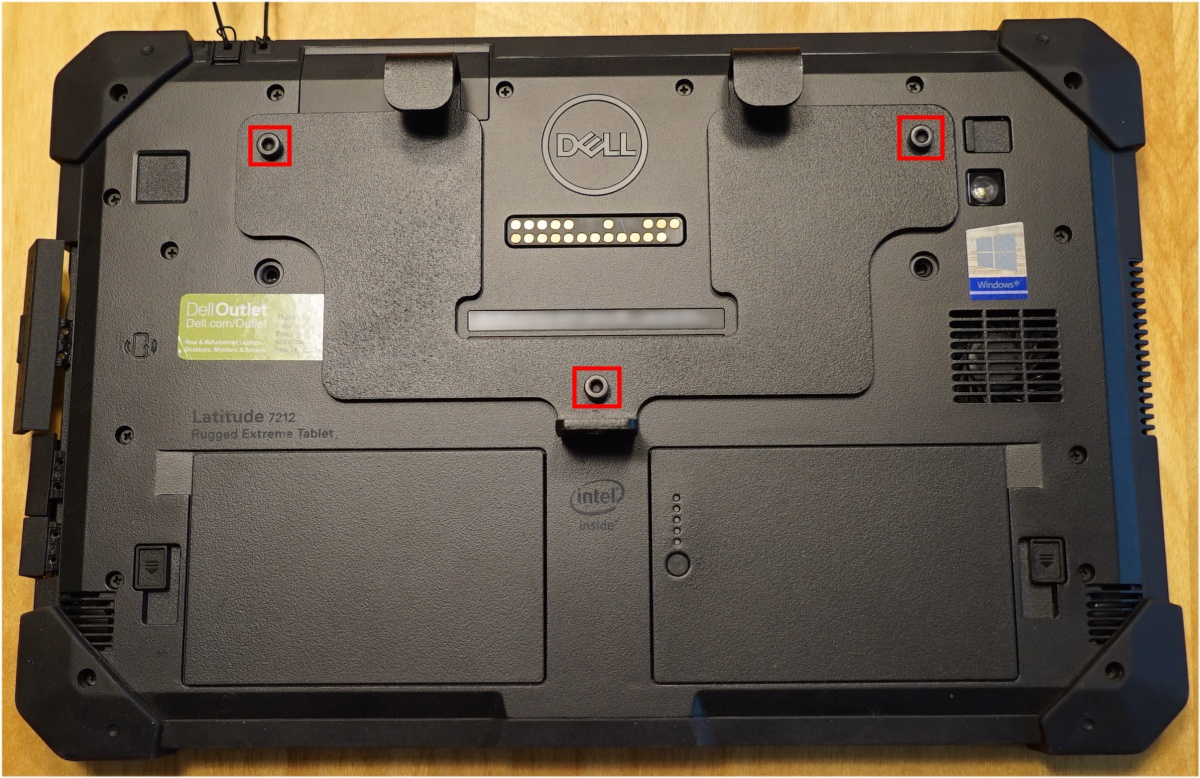
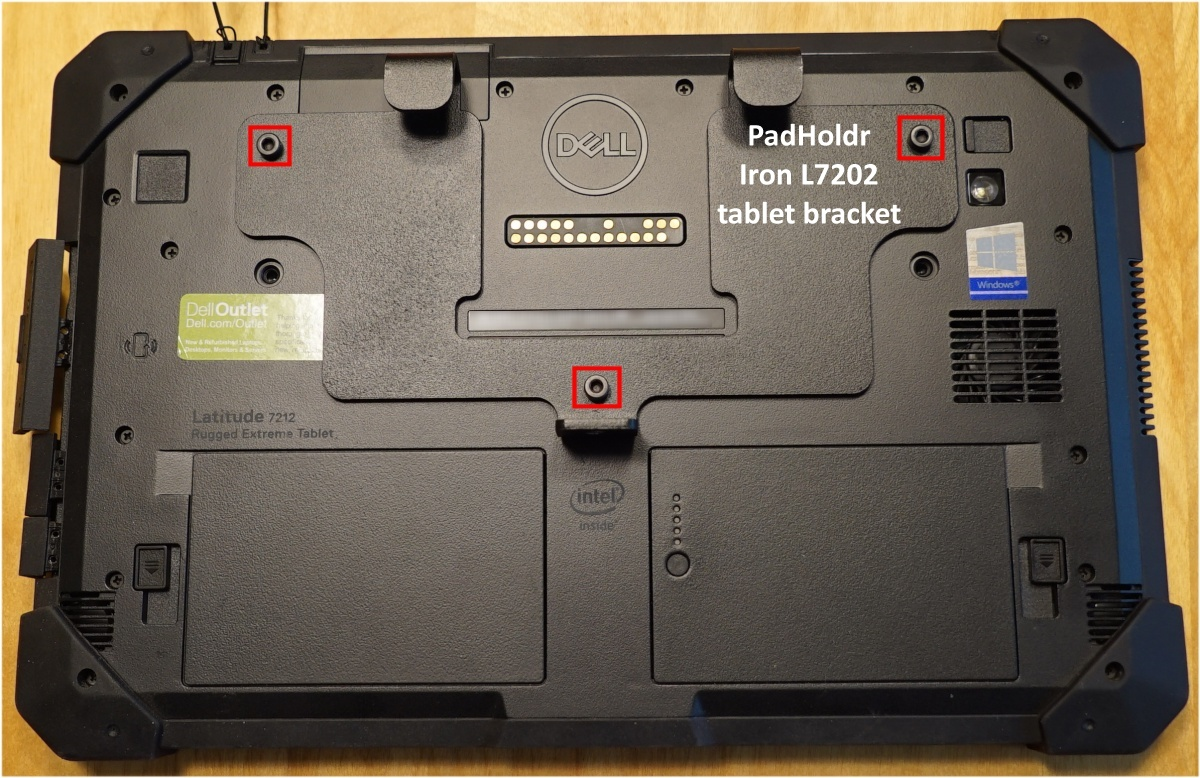
More progress on rugged tablet project.

Changed region(s): [[0.5858, 0.1542, 0.74, 0.3085]]

diff --git a/docs/_projects/2020-11-14-rugged-tablet.md b/docs/_projects/2020-11-14-rugged-tablet.md
@@ -19,36 +19,34 @@ After some discussion with the club, we decided build around the [Dell Rugged Ex
 
 The end result was a durable, one-piece unit that quickly attaches to the Hi-Pod and gets the club live and on-the-air with minimal fuss.
 
-![](/assets/projects/rugged/whole-assembly.jpg)
+![Completed Project](/assets/projects/rugged/completed-project.jpg)
 
 <!--more-->
 
-Each system we built for Seattle United included the tablet, mount and video connections, an on-air light, and external batteries with a custom switchbox to toggle between them. You may choose to mix and match the system components differently depending on your needs so we've split the system design into several sections, the latter of which are optional.
+Each system we built for Seattle United included the tablet, mount and video connections, an on-air light, and external batteries with a custom switchbox to toggle between them. You may choose to mix and match the system components differently depending on your needs so we've split the system design into several sections, some of which are optional.
 
 <!-- Tables converted from Excel by https://tabletomarkdown.com/convert-spreadsheet-to-markdown/ -->
 
-## System Design
+## Parts Lists
 
-1. [Main Tablet Assembly](#main-tablet-assembly)
-2. [External Batteries](#external-batteries)
-3. [On-Air Light](#on-air-light)
-4. [Battery Switchbox](#battery-switchbox)
+The parts lists are broken into several sections, the latter of which are optional. Prices shown were current as of November 2020.
 
-### Main Tablet Assembly
+* [Main Tablet Parts](#main-tablet-parts)
+* [External Battery Parts](#external-battery-parts) (optional)
+* [On-Air Light Parts](#on-air-light-parts) (optional)
+* [Battery Switchbox Parts](#battery-switchbox-parts) (optional)
 
-This is the core of the system with the main components you need to run SimpleSportsCaster on a tablet attached to a Hi-Pod pole. It doesn't include some of the optional components like the on-air light or the external batteries. To be clear, even if you don't add the [external batteries](#external-batteries), you'll still need some kind of external power source to make it through a 2 hour game.
+### Main Tablet Parts
 
-The single most expensive piece of the system is the Dell Rugged Extreme Tablet itself. We recommend you choose to configure it with an Intel Core i7 processor, especially if you want to live stream and record simultaneously.
+This is the core of the system with the main components you need to run SimpleSportsCaster on a rugged tablet attached to a Hi-Pod pole. It doesn't include some of the optional components like the on-air light or the external batteries. To be clear, even if you don't add the [external batteries](#external-battery-parts), you'll still need some kind of external power source to make it through a 2 hour game.
+
+The single most expensive piece of the system is the Dell Rugged Extreme Tablet itself. We recommend a configuration with the Intel Core i7 processor, especially if you want to live stream and record simultaneously.
 
 For live streaming, it's extremely convenient to include one of the mobile broadband options but you can also tether your phone or use some other external mobile hotspot.
 
 If you intend to record your games to the tablet, you'll want a reasonably large hard drive or solid state storage. Recording high quality HD 1080p60 video at 50 mbps consumes over 20 gigabytes of storage per hour. Think about how many games you'll want to save on the tablet before transferring them elsewhere and plan accordingly. Seattle United chose the 512 GB option which let's them record an entire weekend worth of ECNL games without running out of space.
 
 After the tablet, one of the most important components is the video capture device that allows the tablet to recieve the video feed from the camera on top of the Hi-Pod. We choose the [Elgato HD60 S+](https://www.elgato.com/en/gaming/game-capture-hd60-s-plus) because it's a high-quality device from a well-known manufacturer. It also has two HDMI ports which allows you to view the video feed on the tablet and on the Hi-Pod's monitor at the same time. This is great if you have a two-person crew where one person operates the camera while viewing the Hi-Pod monitor and another operates the scoreboard and keeps statistics on the tablet.
-
-#### Parts List
-
-Here is the complete parts list for the main tablet assembly. Prices shown were current as of November 2020.
 
 | Manufacturer    | Part                                                                                                                                                                                                                         | Quantity | Unit Cost | Total Cost | Description                                                                                                               |
 | --------------- | ---------------------------------------------------------------------------------------------------------------------------------------------------------------------------------------------------------------------------- | -------- | --------- | ---------- | ------------------------------------------------------------------------------------------------------------------------- |
@@ -67,32 +65,20 @@ Here is the complete parts list for the main tablet assembly. Prices shown were 
 |                 | misc tools and hardware                                                                                                                                                                                                      |          |           |            | nuts, bolts, screwdrivers, wrenches, thread lock glue                                                                     |
 | **Total**       |                                                                                                                                                                                                                              |          |           | **$2,954** |                                                                                                                           |
 
-#### Clamp Arm
+### External Battery Parts
 
-Assemble the clamp and tablet mount parts as shown below.
-
-You may want to some thread lock glue on the Manfrotto 2907 short stud where it screws into the back of the RAM 202CNSU ball.
-
-![](/assets/projects/rugged/clamp-arm.jpg)
-
-If you plan to add the [external batteries](#external-batteries) then you'll want to sandwich the battery mounting plate between the PadHolder Iron L7202 and the RAM 2461U at this time. Otherwise, you'll have to do some disassembly to add it later.
-
-#### Tablet Mount
-
-If necessary, unscrew and separate the two halves of the PadHoldr Iron L7202. Attach the tablet bracket of the L7202 to the back of the Dell tablet using the included screws.
-
-![](/assets/projects/rugged/tablet-bracket.jpg)
-
-### External Batteries
+One requirement we wanted to satisfy was the ability to broadcast and record two complete games without needing to plug in or recharge. We determined that adding two Dell 65 watt-hour external batteries was enough to meet that requirement. The 4"x10" aluminum sheet provides a mounting surface for the batteries. You can use a different material like plastic if you prefer.
 
 | Manufacturer | Part                                                                                                                                               | Quantity | Unit Cost | Total Cost | Description                                                                           |
 | ------------ | -------------------------------------------------------------------------------------------------------------------------------------------------- | -------- | --------- | ---------- | ------------------------------------------------------------------------------------- |
-| Dell         | [PW7015L 65 WHr Power Bank Plus](https://www.dell.com/en-us/work/shop/dell-notebook-power-bank-plus-18000-mah-pw7015l/apd/451-bbkv/pc-accessories) | 2        | $110      | $220       | 2 external batteries per system, to allow 2 recording and broadcasting two full games |
-| ksmetals.com | [KS257 4"x10"x0.064" aluminum sheet](https://www.amazon.com/Precision-Metals-257-Aluminum-Thickness/dp/B004AFAZNS)                                 | 1        | $3        | $3         | backplane for batteries, USB hub, switch box                                          |
+| Dell         | [PW7015L 65 WHr Power Bank Plus](https://www.dell.com/en-us/work/shop/dell-notebook-power-bank-plus-18000-mah-pw7015l/apd/451-bbkv/pc-accessories) | 2        | $110      | $220       | 2 external batteries per system, to allow recording and broadcasting two full games   |
+| ksmetals.com | [KS257 4"x10"x0.064" aluminum sheet](https://www.amazon.com/Precision-Metals-257-Aluminum-Thickness/dp/B004AFAZNS)                                 | 1        | $3        | $3         | mounting plate for batteries, USB hub, switch box                                     |
 |              | misc tools and hardware                                                                                                                            |          |           |            | drill press, drill bits, clamps, Velcro strips from above                             |
 | **Total**    |                                                                                                                                                    |          |           | **$223**   |                                                                                       |
 
-### On-Air Light
+### On-Air Light Parts
+
+Adding an on-air light is a friendly way to remind people nearby that their voices might be heard on your live stream. SimpleSportsCaster can also flash the light as a low battery warning to the camera operator. We plug the light into a USB gooseneck extension to lift it above the tablet high enough to be visible from all sides. We also add a USB/network/HDMI hub as a convenience since the tablet has limited number of ports.
 
 | Manufacturer    | Part                                                                                                                          | Quantity | Unit Cost | Total Cost | Description                                                            |
 | --------------- | ----------------------------------------------------------------------------------------------------------------------------- | -------- | --------- | ---------- | ---------------------------------------------------------------------- |
@@ -104,7 +90,9 @@ If necessary, unscrew and separate the two halves of the PadHoldr Iron L7202. At
 |                 | misc tools and hardware                                                                                                       |          |           |            | Velcro strips from above                                               |
 | **Total**       |                                                                                                                               |          |           | **$93**    |                                                                        |
 
-### Battery Switchbox
+### Battery Switchbox Parts
+
+To simplify switching between the two external batteries, we built a little switch box that attaches to the back of the tablet. It has one position for each of the external batteries plus a third position that allows charging both batteries and the tablet from a single power adapter.
 
 | Manufacturer | Part                                                                        | Quantity | Unit Cost | Total Cost | Description                                                                        |
 | ------------ | --------------------------------------------------------------------------- | -------- | --------- | ---------- | ---------------------------------------------------------------------------------- |
@@ -114,3 +102,47 @@ If necessary, unscrew and separate the two halves of the PadHoldr Iron L7202. At
 |              | misc tools and hardware                                                     |          |           |            | screws, nuts, solder, wires, drill, bits, screwdriver, soldering iron, wire cutter |
 | **Total**    |                                                                             |          |           | **$20**    |                                                                                    |
 
+## Assembly Instructions
+
+1. [Battery Mounting Plate](#battery-mounting-plate)
+2. [Clamp Arm](#clamp-arm)
+3. [Tablet Mount](#tablet-mount)
+4. [Video Capture](#video-capture)
+
+### Battery Mounting Plate
+
+If you choose to add the Dell [external batteries](#external-battery-parts) to your system, use the RAM 2461U VESA plate as a template to drill four holes through the KS257 aluminum plate as shown here:
+
+![Battery Plate Holes](/assets/projects/rugged/battery-plate-holes.jpg)
+
+Use a metal file to smooth the sharp edges of the aluminum sheet and round the corners to make them safer to touch.
+
+Sandwich the battery mounting plate between the PadHolder Iron L7202 and the RAM 2461U VESA plate and join all three pieces together with four nuts and bolts. If the bolts included with the PadHoldr kit are too long or too short then you'll need to visit a hardware store to buy some bolts of the proper length. 
+
+See the two images below for reference. Also note the location of the adhesive Velcro hook strips. Some of the Velcro is optional depending upon whether or not you plan to install the on-air light with Anker USB hub or the battery switchbox.
+
+![Battery Plate Ball Side](/assets/projects/rugged/battery-plate-ball-side.jpg)
+
+![Battery Plate Tablet Side](/assets/projects/rugged/battery-plate-tablet-side.jpg)
+
+### Clamp Arm
+
+Assemble the clamp and tablet mount parts as shown below.
+
+You may want to apply some thread lock glue on the Manfrotto 2907 short stud where it screws into the back of the RAM 202CNSU ball.
+
+If you chose to build the battery mounting plate then you will have already joined the RAM 2461U to the PadHoldr Iron L7202 with the battery plate sandwiched in between.
+
+![Clamp Arm](/assets/projects/rugged/clamp-arm.jpg)
+
+If you haven't already done so, unscrew and separate the two halves of the PadHoldr Iron L7202. Place a strip of Velcro hooks on the inside of the half of the L7202 that is bolted to the RAM 2461U VESA plate. This Velcro strip will hold the Elgato HD60 S+ video capture device. This image shows where to place the Velcro.
+
+![Velcro hooks for Elgato HD60 S+](/assets/projects/rugged/video-capture-velcro-hooks.jpg)
+
+### Tablet Mount
+
+If you haven't already done so, unscrew and separate the two halves of the PadHoldr Iron L7202. Attach the tablet bracket of the L7202 to the back of the Dell tablet using the included screws.
+
+![Tablet Bracket](/assets/projects/rugged/tablet-bracket.jpg)
+
+### Video Capture
